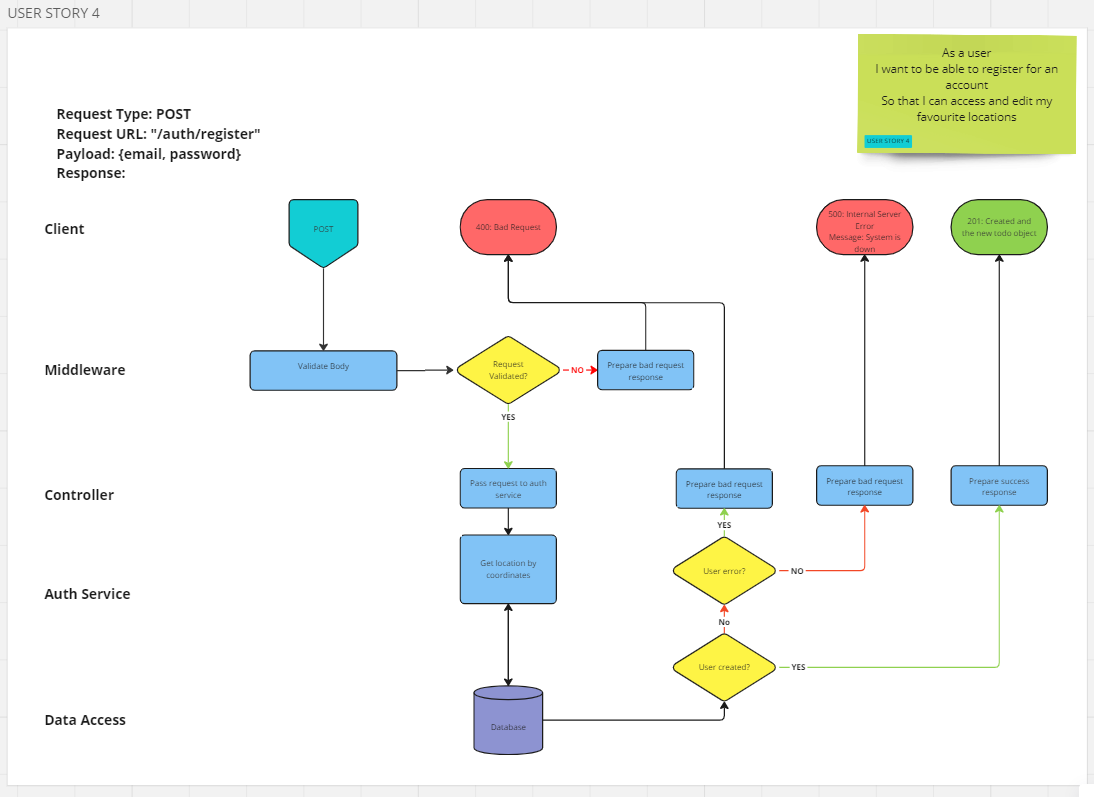
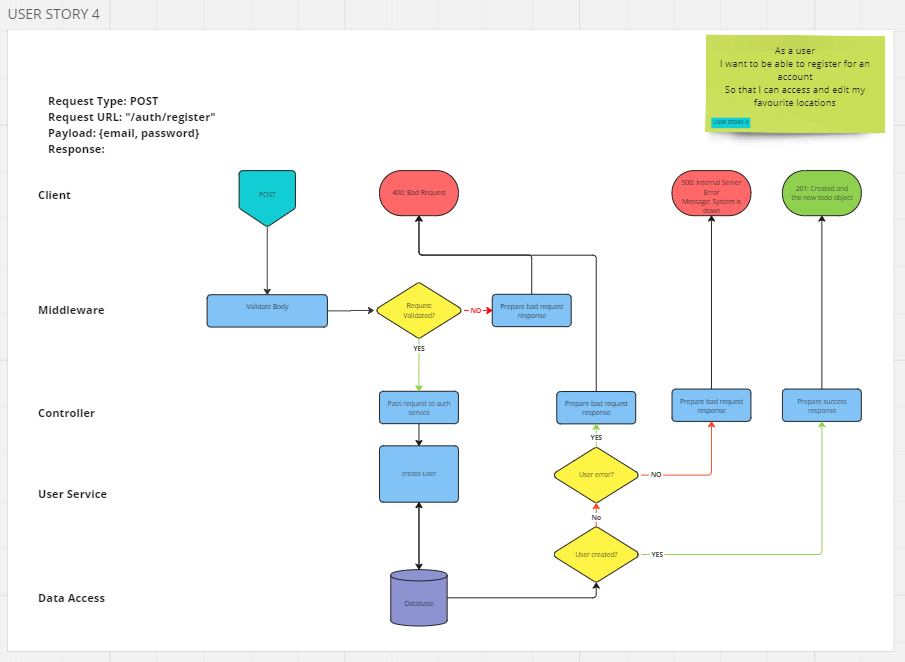
PASSED: AS5-1
It should call findOne and select on the user model with the correct arguments

diff --git a/test/unit/user/User.service.test.js b/test/unit/user/User.service.test.js
@@ -12,6 +12,8 @@ use(chaiAsPromised);
 describe("User service tests: ", () => {
   let userService = null;
   let createStub = null;
+  let findOneStub = null;
+  let selectStub = null;
   const testUserEmail = userData.submissions[0].emailAddress;
   const testUserPassword = userData.submissions[0].password;
 
@@ -19,12 +21,17 @@ describe("User service tests: ", () => {
   beforeEach(() => {
     userService = new UserService();
     createStub = sinon.stub(User, "create");
+    findOneStub = sinon.stub(User, "findOne");
+    selectStub = sinon.stub();
+    findOneStub.returns({ select: selectStub });
   });
 
   //CLEAN-UP USER SERVICE TESTS
   afterEach(() => {
     userService = null;
     createStub.restore();
+    findOneStub.restore();
+    selectStub = null;
   });
 
   describe("createUser tests: ", () => {
@@ -86,6 +93,23 @@ describe("User service tests: ", () => {
       );
       //Assert
       expect(actualUserId).to.equal(userData.documents[0]._id);
+    });
+  });
+
+  describe("findByEmailAddress tests: ", () => {
+    //? AS5-1
+    it("should call findOne and select on the user model with the correct arguments", async () => {
+      //Arrange
+      const expectedFindOneArg = { emailAddress: testUserEmail };
+      const expectedSelectArg = "+password";
+      //Act
+      await userService.findByEmailAddress(testUserEmail);
+      //Assert
+      const [actualFindOneArg] = findOneStub.getCall(0).args;
+      const [actualSelectArg] = selectStub.getCall(0).args;
+      //Assert
+      expect(actualFindOneArg).to.deep.equal(expectedFindOneArg);
+      expect(actualSelectArg).to.deep.equal(expectedSelectArg);
     });
   });
 });

diff --git a/src/services/User.service.js b/src/services/User.service.js
@@ -15,4 +15,8 @@ export default class UserService {
       throw new HTTPError(500, "Server error");
     }
   };
+
+  findByEmailAddress = async (emailAddress) => {
+    await User.findOne({ emailAddress }).select("+password");
+  };
 }

diff --git a/docs/routing-diagrams-and-tests/user-story-5-routing-diagram-and-tests.md b/docs/routing-diagrams-and-tests/user-story-5-routing-diagram-and-tests.md
@@ -1,0 +1,49 @@
+# User Story 5: Routing Diagram and Tests
+
+## User Story
+
+- As a user
+- I want to be able to gain authentication to access my data by providing the correct credentials
+- So that I am enabled to pass authentication and use my data
+
+## Routing Diagram
+
+![User story 5 Routing diagram](./images/user-story-5-routing-diagram.PNG)
+
+## Tests
+
+### User Service (AS)
+
+- [x] AS5-1: It should call findOne and select on the user model with the correct arguments
+- [ ] AS5-2: It should throw a HTTPError with status of 500 where findOne fails
+- [ ] AS5-3: It should return the new user
+
+### Authentication Controller (AC)
+
+- [ ] AC5-1: It should call findByEmailAddress on the User Service
+- [ ] AC5-2: It should respond with a 401 error if User Service returns null
+- [ ] AC5-3: It should respond with a 500 error if User Service fails
+- [ ] AC5-4: It should call compare on bcrypt with the correct arguments
+- [ ] AC5-5: It should respond with a 401 error if bcrypt returns false
+- [ ] AC5-6: It should respond with a 500 error if bcrypt rejects
+- [ ] AC5-7: It should attach the User object, without the password, to req if bcrypt returns true
+- [ ] AC5-7: It should call next if bcrypt returns true
+
+### Sign and Send JWT (JWT)
+
+- [ ] JWT5-1: It should call sign on jwt with the correct arguments
+- [ ] JWT5-2: It should respond with a 500 error if sign fails
+- [ ] JWT5-3: It should res.cookie with valid arguments
+- [ ] JWT5-4: It should respond with a 500 error if cookie method fails
+- [ ] JWT5-5: It should respond with a 201 status code
+- [ ] JWT5-6: It should include res.user in the body of a success response
+
+### Integration Tests (INT)
+
+- [ ] INT5-1: It should respond with a 201 status code with valid request
+- [ ] INT5-2: It should include user emailAddress and id in body in success response
+- [ ] INT5-3: It should not include user password in body in success response
+- [ ] INT5-4: It should have a header to set JWT in success response
+- [ ] INT5-5: It should respond with a 401 response if email address is not found
+- [ ] INT5-6: It should respond with a 401 response if passwords do not match
+- [ ] INT5-7: It should respond with a 500 response if findOne and select fails

diff --git a/docs/routing-diagrams-and-tests/user-story-4-routing-diagram-and-tests.md b/docs/routing-diagrams-and-tests/user-story-4-routing-diagram-and-tests.md
@@ -12,7 +12,7 @@
 
 ## Tests
 
-### Authentication Service (AS)
+### User Service (AS)
 
 - [x] AS4-1: It should call create on the user model with the correct arguments
 - [x] AS4-2: It should throw a HTTPError with status of 400 where the email is a duplicate
